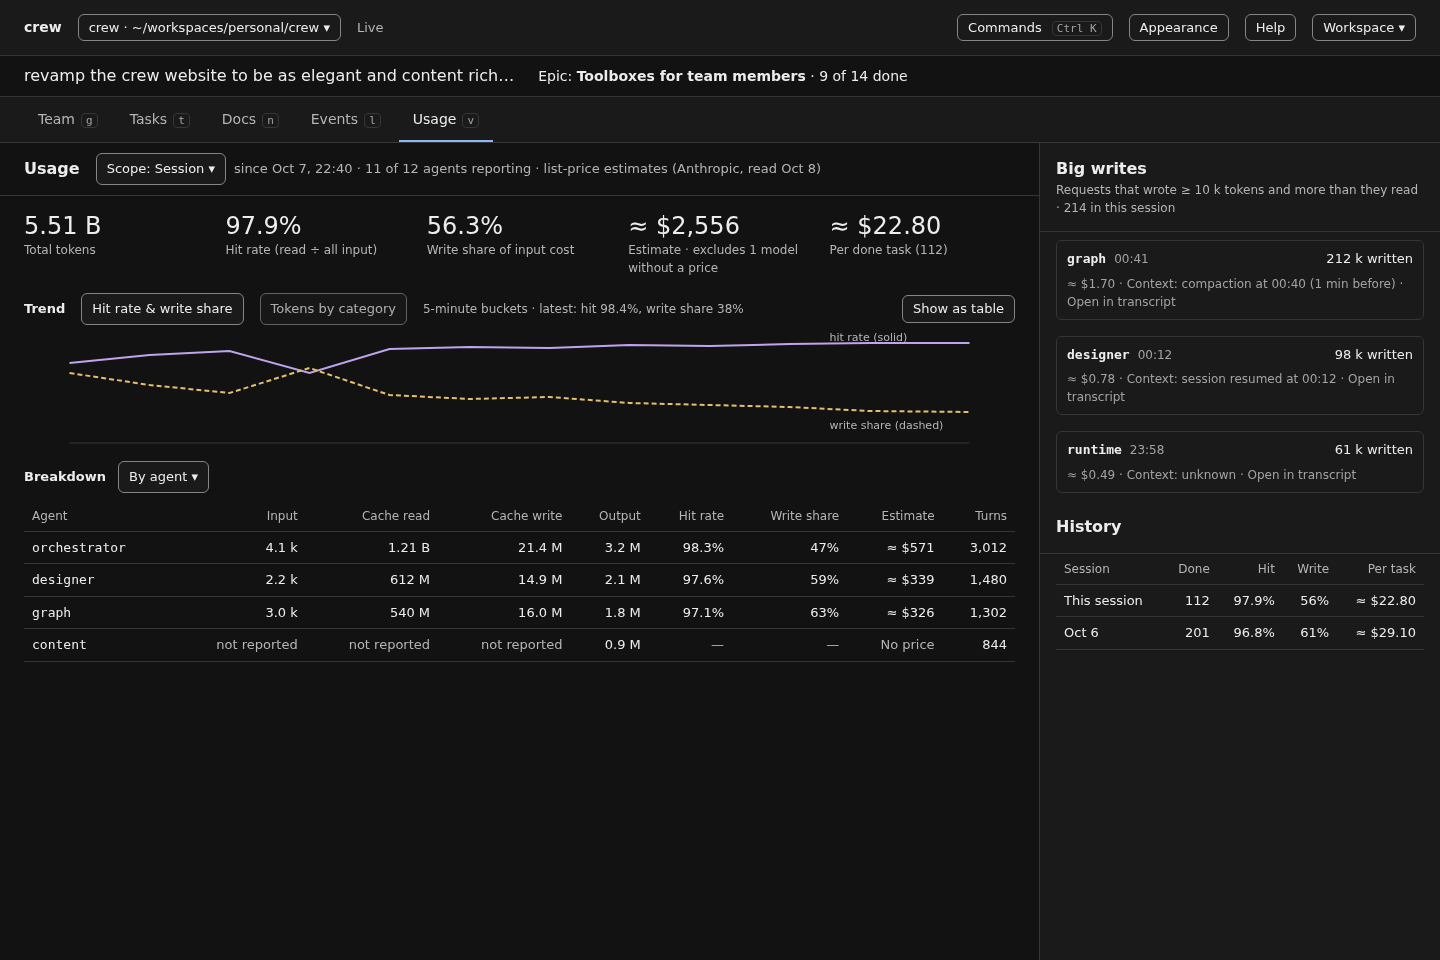
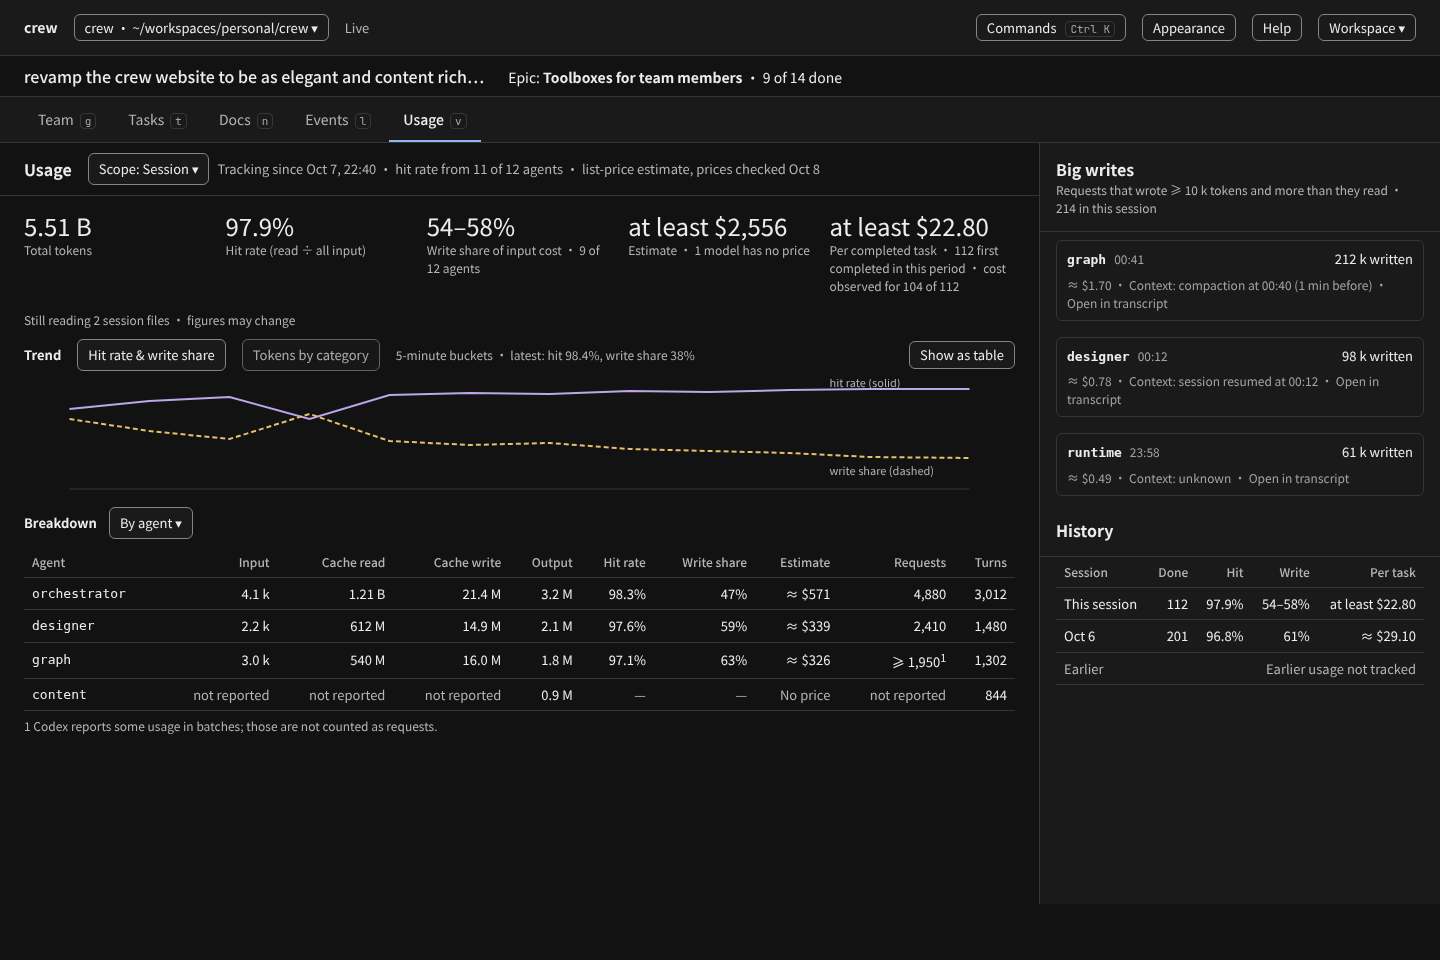
Fold the approved usage metrics copy into the dashboard spec
Follow notes/usage-metrics.md (b1fcceca): per-metric coverage instead
of one reporting count, three distinct estimate states with their
rounding, Per completed task over the first-completion cohort,
Requests and Turns with their own reasons, source gaps that never show
as zero, the tracking boundary and price date, hatched gaps for buckets
without a category split, and separate No epic and Not attributed
rows. Update F12-F14 and recapture the usage mockup.

diff --git a/notes/dashboard-features/usage.html b/notes/dashboard-features/usage.html
@@ -9,14 +9,15 @@
   <nav class="views"><a>Team<kbd>g</kbd></a><a>Tasks<kbd>t</kbd></a><a>Docs<kbd>n</kbd></a><a>Events<kbd>l</kbd></a><a class="on">Usage<kbd>v</kbd></a></nav>
   <div class="body">
     <main>
-      <div class="toolbar"><span class="title">Usage</span><span class="sel">Scope: Session ▾</span><span class="muted sm">since Oct 7, 22:40 · 11 of 12 agents reporting · list-price estimates (Anthropic, read Oct 8)</span></div>
+      <div class="toolbar"><span class="title">Usage</span><span class="sel">Scope: Session ▾</span><span class="muted sm">Tracking since Oct 7, 22:40 · hit rate from 11 of 12 agents · list-price estimate, prices checked Oct 8</span></div>
       <div class="tiles">
         <div class="tile"><div class="v">5.51 B</div><div class="l">Total tokens</div></div>
         <div class="tile"><div class="v">97.9%</div><div class="l">Hit rate (read ÷ all input)</div></div>
-        <div class="tile"><div class="v">56.3%</div><div class="l">Write share of input cost</div></div>
-        <div class="tile"><div class="v">≈ $2,556</div><div class="l">Estimate · excludes 1 model without a price</div></div>
-        <div class="tile"><div class="v">≈ $22.80</div><div class="l">Per done task (112)</div></div>
+        <div class="tile"><div class="v">54–58%</div><div class="l">Write share of input cost · 9 of 12 agents</div></div>
+        <div class="tile"><div class="v">at least $2,556</div><div class="l">Estimate · 1 model has no price</div></div>
+        <div class="tile"><div class="v">at least $22.80</div><div class="l">Per completed task · 112 first completed in this period · cost observed for 104 of 112</div></div>
       </div>
+      <div class="xs muted" style="padding:0 24px 10px">Still reading 2 session files · figures may change</div>
       <div style="padding:0 24px 8px;display:flex;gap:16px;align-items:center"><b class="sm">Trend</b><span class="sel">Hit rate &amp; write share</span><span class="sel" style="opacity:.7">Tokens by category</span><span class="xs muted">5-minute buckets · latest: hit 98.4%, write share 38%</span><span class="spacer"></span><span class="btn">Show as table</span></div>
       <svg viewBox="0 0 900 120" style="margin:0 24px;width:calc(100% - 48px);height:120px" role="img" aria-label="Hit rate and write share over the session">
         <line x1="0" y1="110" x2="900" y2="110" stroke="var(--line)"/>
@@ -25,12 +26,13 @@
         <text x="760" y="8" font-size="11" fill="var(--muted)">hit rate (solid)</text><text x="760" y="96" font-size="11" fill="var(--muted)">write share (dashed)</text>
       </svg>
       <div style="padding:8px 24px;display:flex;gap:12px;align-items:center"><b class="sm">Breakdown</b><span class="sel">By agent ▾</span></div>
-      <table class="grid"><tr><th>Agent</th><th>Input</th><th>Cache read</th><th>Cache write</th><th>Output</th><th>Hit rate</th><th>Write share</th><th>Estimate</th><th>Turns</th></tr>
-        <tr><td class="mono">orchestrator</td><td>4.1 k</td><td>1.21 B</td><td>21.4 M</td><td>3.2 M</td><td>98.3%</td><td>47%</td><td>≈ $571</td><td>3,012</td></tr>
-        <tr><td class="mono">designer</td><td>2.2 k</td><td>612 M</td><td>14.9 M</td><td>2.1 M</td><td>97.6%</td><td>59%</td><td>≈ $339</td><td>1,480</td></tr>
-        <tr><td class="mono">graph</td><td>3.0 k</td><td>540 M</td><td>16.0 M</td><td>1.8 M</td><td>97.1%</td><td>63%</td><td>≈ $326</td><td>1,302</td></tr>
-        <tr><td class="mono">content</td><td class="muted">not reported</td><td class="muted">not reported</td><td class="muted">not reported</td><td>0.9 M</td><td class="muted">—</td><td class="muted">—</td><td class="muted">No price</td><td>844</td></tr>
+      <table class="grid"><tr><th>Agent</th><th>Input</th><th>Cache read</th><th>Cache write</th><th>Output</th><th>Hit rate</th><th>Write share</th><th>Estimate</th><th>Requests</th><th>Turns</th></tr>
+        <tr><td class="mono">orchestrator</td><td>4.1 k</td><td>1.21 B</td><td>21.4 M</td><td>3.2 M</td><td>98.3%</td><td>47%</td><td>≈ $571</td><td>4,880</td><td>3,012</td></tr>
+        <tr><td class="mono">designer</td><td>2.2 k</td><td>612 M</td><td>14.9 M</td><td>2.1 M</td><td>97.6%</td><td>59%</td><td>≈ $339</td><td>2,410</td><td>1,480</td></tr>
+        <tr><td class="mono">graph</td><td>3.0 k</td><td>540 M</td><td>16.0 M</td><td>1.8 M</td><td>97.1%</td><td>63%</td><td>≈ $326</td><td>≥ 1,950<sup>1</sup></td><td>1,302</td></tr>
+        <tr><td class="mono">content</td><td class="muted">not reported</td><td class="muted">not reported</td><td class="muted">not reported</td><td>0.9 M</td><td class="muted">—</td><td class="muted">—</td><td class="muted">No price</td><td class="muted">not reported</td><td>844</td></tr>
       </table>
+      <div class="xs muted" style="padding:6px 24px">1 Codex reports some usage in batches; those are not counted as requests.</div>
     </main>
     <div class="sep"></div>
     <aside class="panel">
@@ -39,7 +41,7 @@
       <div class="card"><div class="h"><b class="mono">designer</b><span class="quiet xs num">00:12</span><span class="spacer"></span><span class="num">98 k written</span></div><div class="f">≈ $0.78 · Context: session resumed at 00:12 · Open in transcript</div></div>
       <div class="card"><div class="h"><b class="mono">runtime</b><span class="quiet xs num">23:58</span><span class="spacer"></span><span class="num">61 k written</span></div><div class="f">≈ $0.49 · Context: unknown · Open in transcript</div></div>
       <div class="ph"><h2>History</h2></div>
-      <table class="grid" style="margin:0 16px;width:calc(100% - 32px)"><tr><th>Session</th><th>Done</th><th>Hit</th><th>Write</th><th>Per task</th></tr><tr><td>This session</td><td>112</td><td>97.9%</td><td>56%</td><td>≈ $22.80</td></tr><tr><td>Oct 6</td><td>201</td><td>96.8%</td><td>61%</td><td>≈ $29.10</td></tr></table>
+      <table class="grid" style="margin:0 16px;width:calc(100% - 32px)"><tr><th>Session</th><th>Done</th><th>Hit</th><th>Write</th><th>Per task</th></tr><tr><td>This session</td><td>112</td><td>97.9%</td><td style="white-space:nowrap">54–58%</td><td style="white-space:nowrap">at least $22.80</td></tr><tr><td>Oct 6</td><td>201</td><td>96.8%</td><td>61%</td><td>≈ $29.10</td></tr><tr><td class="muted">Earlier</td><td class="muted" colspan="4">Earlier usage not tracked</td></tr></table>
     </aside>
   </div>
 </div>

diff --git a/notes/dashboard-features.md b/notes/dashboard-features.md
@@ -494,8 +494,10 @@ file and heading.
 
 ### Definitions
 
-These are shared with `usage-metrics-design` and `notes/prompt-cache.md`, so
-every view and benchmark uses the same words:
+These are shared with `notes/usage-metrics.md` (approved b1fcceca) and
+`notes/prompt-cache.md`, so every view and benchmark uses the same words.
+The server computes every figure and its coverage; clients display them and
+never recompute from a filtered list.
 
 | Measure | Definition | Shown as |
 | --- | --- | --- |
@@ -505,14 +507,19 @@ every view and benchmark uses the same words:
 | Output | output tokens | tokens |
 | Total input | the runtime's own normalized input total when it reports one (Codex reports total input with cached tokens inside it); otherwise input + cache read + cache write, when all three are reported | tokens |
 | Hit rate | cache read ÷ total input | percent, one decimal |
-| Write share | list cost of cache writes ÷ input-side list cost | percent |
-| Estimate | each category's tokens × that model's list price for the category; 5-minute and 1-hour writes at their own prices | `≈ $12.40`, labelled "list-price estimate" |
-| Cost per done task | estimate ÷ tasks done in the scope | `≈ $0.84` |
+| Write share | list cost of cache writes ÷ input-side list cost, on the same requests | percent, or a range `38–44%` when write TTLs are unknown |
+| Estimate | each category's tokens × that model's list price for the category; 5-minute and 1-hour writes at their own prices | `≈ $12.40`, a range `≈ $2,540–$2,610`, or a partial `at least $2,556` (below) |
+| Per completed task | for the tasks first completed in the period: their observed cost from the start of the run up to each first completion, ÷ the number of those tasks | `≈ $22.80`, with "112 tasks first completed in this period" |
+| Requests | distinct requests the runtime reports | a number, or `≥ 9,612` with the reason when some usage arrives in batches |
+| Turns | turns correlated between the runtime and the daemon | a number, or `≥ N` with its own reason |
 
 **Coverage, metric by metric.** Each metric uses every request that reports
 what that metric needs, and states its own coverage when that is not every
 request, for example "Hit rate 97.9% · over 9,412 of 9,801 requests". A
-missing field is never counted as zero.
+missing field is never counted as zero. There is no single "agents
+reporting" count for all metrics: the scope line names the hit rate's
+("hit rate from 11 of 12 agents"), and each figure whose coverage is
+incomplete carries its own "K of N".
 
 - **Hit rate** needs cache read and a total input. So a Codex request
   reporting total input 100 and cache read 80, with no write counters, gives
@@ -527,12 +534,38 @@ missing field is never counted as zero.
 
   It then reads `≈ $12.40–$13.10` with "includes 1.2 M write tokens with no
   TTL reported".
+- **Three estimate states**, which never look alike:
+  - a finite range: `≈ $2,540–$2,610`;
+  - a partial subtotal, when some cost has no upper bound (a model without a
+    price, tasks without observed cost): `at least $2,556 · 1 model has no
+    price`, or for Per completed task `at least $22.80 · cost observed for
+    104 of 112`. No "≈" and no range dash;
+  - none: `Estimate unavailable · <reason>`.
+
+  An "at least" value rounds down. Both ends of a range round outward.
+- **Per completed task.** A task counts once, at its first completion, even
+  if it is reopened and completed again. Its cost can predate the period;
+  the note then adds "· includes their earlier spend". With an epic scope,
+  the cohort is the tasks first completed in that epic. All-period spend ÷
+  the current done count is a different ratio and is not shown in v1.
 - **Unavailable.** A rate whose denominator is zero, or a scope with no
-  covered requests, shows **unavailable** with the reason. For example,
-  "Hit rate unavailable · no input reported" or "Cost per done task
-  unavailable · no tasks done".
+  covered requests, shows **unavailable** with the reason, which tells
+  apart "no covered input", "zero input", "no task first completed in this
+  period" and "no cost observed for these tasks". For example: "Hit rate
+  unavailable · no input reported", "Write share unavailable · write counts
+  not reported", "Per completed task unavailable · no task first completed
+  in this period".
 - **Not reported.** A runtime that never reports a field shows **not
-  reported** for it, and the scope shows "N of M agents reporting".
+  reported** for it.
+- **Source gaps.** While session files are still being read, or one is
+  missing or in a schema crew does not support, one line under the figures
+  says so: "Still reading 2 session files · figures may change". Figures can
+  go down as well as up while that line shows. A gap is never shown as 0.
+- **Tracking boundary.** The scope line says "Tracking since Oct 7, 22:40".
+  The period before it shows "Earlier usage not tracked".
+- **Price basis.** The scope line says "list-price estimate, prices checked
+  Oct 8". Help states that this is the standard API price for the same
+  tokens, not a bill, a subscription charge or a quota.
 
 
 **Why both rates.** Hit rate and Write share always appear together. In the
@@ -566,11 +599,13 @@ per-agent rows, and gains a metrics section above them.
   - Hit rate;
   - Write share;
   - Estimate;
-  - Cost per done task.
+  - Per completed task.
 - **Trend.** A small chart over the session, with one point per bucket (5
   minutes up to 6 hours, then hourly). It shows either hit rate and write
   share as lines, or the four token categories as stacked bars (using the
-  `--token-*` colours), through a two-way toggle. The latest values are
+  `--token-*` colours), through a two-way toggle. A bucket whose requests do
+  not all report the four categories is drawn as a hatched gap labelled
+  "split not reported", never as a zero-height bar. The latest values are
   printed beside it as text. History comes from stored samples
   (`usage-metrics-design`). Before any sample exists, the chart says "No
   samples yet" and draws nothing.
@@ -582,9 +617,12 @@ per-agent rows, and gains a metrics section above them.
   - Hit rate;
   - Write share;
   - Estimate;
+  - Requests;
   - Turns.
 
-  Rows sort by any column. Numbers use tabular figures. Below 768px the
+  Rows sort by any column. With Epic, the rows include **No epic** (tasks
+  outside any epic) and **Not attributed** (usage with no task) as two
+  separate rows. Numbers use tabular figures. Below 768px the
   table becomes stacked rows (web-revamp "At narrow width…").
 - **Big writes.** The requests that wrote at least 10k tokens and more than
   they read (the audit's definition), with agent, time, tokens written per
@@ -601,7 +639,7 @@ per-agent rows, and gains a metrics section above them.
   - start, duration;
   - tasks done;
   - hit rate, write share;
-  - estimate, cost per done task.
+  - estimate, per completed task.
 
   The current session is marked. Selecting a row scopes the figures to that
   session read-only; this is the benchmark comparison the operator asked for.
@@ -612,8 +650,8 @@ per-agent rows, and gains a metrics section above them.
   and estimate.
 - **Epic detail.** It shows the epic's totals, hit rate, write share and
   estimate. Usage is attributed to an epic through the task each turn worked
-  on, as `usage-metrics-design` defines it. Turns without a task show as
-  "Not attributed".
+  on, as `notes/usage-metrics.md` defines it. Its Per completed task uses
+  the tasks first completed in this epic.
 - **Summary row.** It shows nothing new; the existing UsageStrip keeps quota
   pressure visible. Metrics are a Usage-view concern.
 
@@ -776,9 +814,9 @@ Captures are taken in light and dark at 1440×960 and 390×844.
 | F09 | Workspace and member versions | View switches between Workspace and the member's version. Compare with Workspace shows a diff in the existing Diff component. |
 | F10 | History | The timeline lists the recorded commits and the versions seen since the page opened, with the Seen-here footer. Picking two entries shows the diff between them. After the connection drops, an unselected Seen-here entry is gone, and a selected one shows the expired state with View Workspace; the shown content never switches by itself. |
 | F11 | Links into Docs | Task text, message bodies and `file` artifacts containing `notes/x.md` or `notes/x.md §Heading` link to the document at that heading. Unknown paths are not links. Referenced by lists the linking tasks and messages, with its scope stated. |
-| F12 | Usage figures | Total, Hit rate, Write share, Estimate and Cost per done task match a hand computation from the fixture under the §Definitions formulas. The model without a price shows No price, and the total states the exclusion. A non-reporting agent shows not reported, not 0. A Codex fixture request with total input and cache read but no write counters counts toward hit rate and not toward write share. A Claude request with an aggregate write and no TTL split makes the estimate a range with its note. A scope with no done tasks shows Cost per done task unavailable with the reason. |
-| F13 | Trend and breakdown | The trend draws buckets from the samples, with the latest values as text. Show as table gives the same figures. The breakdown sorts by every column, and the narrow layout stacks without page overflow. |
-| F14 | Big writes and history | Big writes lists exactly the fixture's qualifying requests, and opens the agent at that time. History lists both sessions, and selecting the earlier one scopes the figures read-only. |
+| F12 | Usage figures | Total, Hit rate, Write share, Estimate and Per completed task match a hand computation from the fixture under the §Definitions formulas (the arithmetic examples of `notes/usage-metrics.md`). The model without a price shows No price, and the estimate shows `at least …` with the exclusion, never `≈`. A non-reporting agent shows not reported, not 0. A Codex fixture request with total input and cache read but no write counters counts toward hit rate and not toward write share. A Claude request with an aggregate write and no TTL split makes the estimate and write share ranges with their note. A task reopened and completed again counts once. A period with no first completion shows Per completed task unavailable with the reason. |
+| F13 | Trend and breakdown | The trend draws buckets from the samples, with the latest values as text. A bucket without a full category split is a hatched gap labelled split not reported. Show as table gives the same figures. The breakdown sorts by every column, shows `≥` Requests with its reason for a batch-reporting runtime, lists No epic and Not attributed as separate rows, and the narrow layout stacks without page overflow. |
+| F14 | Big writes, history and gaps | Big writes lists exactly the fixture's qualifying requests, and opens the agent at that time. History lists both sessions, and selecting the earlier one scopes the figures read-only. With a session file still being read, the gap line shows and no figure shows 0 for it; a later revision that lowers a figure is drawn as is. The scope line shows the tracking boundary and the price date. |
 | F15 | Aside ask | `/btw` switches the composer to aside mode with the copy line and the `--info` border. The recipient picker lists unavailable members with reasons. Escape keeps the text. Sending opens the Asides tab. |
 | F16 | Aside answers | Answers arrive independently; the slow one shows Answering and the failed one shows its reason. The footer names the source copy and time, and tokens and estimate are shown. Cancel stops pending answers. |
 | F17 | Aside isolation | During and after an aside: no bus row, inbox entry, transcript line, task change or briefing change. Only `aside.*` events without bodies appear. The fixture's live sessions receive no input. Send as message opens the normal composer prefilled, and only sending it reaches the member. |
